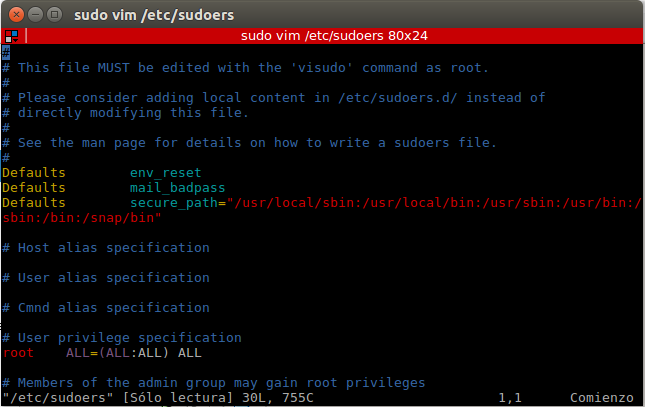
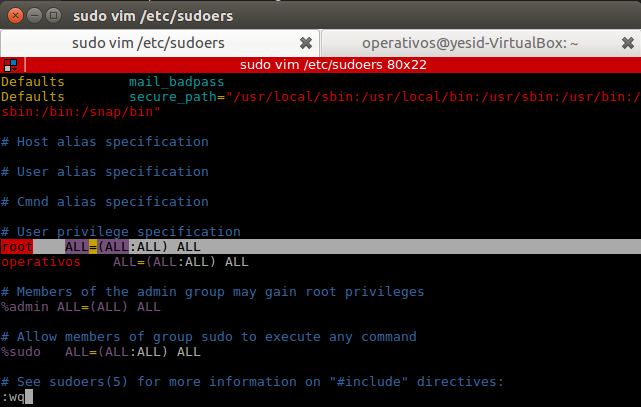
update README.md

Changed region(s): [[0.0, 0.0, 1.0, 1.0], [0.0, 0.914, 0.8112, 1.0], [0.0, 0.7961, 0.6552, 0.8845]]

diff --git a/A00056408/README.md b/A00056408/README.md
@@ -1,7 +1,7 @@
 # Proyecto   
 **Nombre:** Yesid Leonardo López  
 **Código:** A00056408  
-
+**URL Repositorio:** 
 # Objetivo General  
 
 Realizar el despliegue de dos servidores web y un balanceador de carga por medio de contenedores LXC/LXD. 
@@ -35,7 +35,46 @@ Para instalarlo le damos permisos al usuario operativos. Para esto escribimos en
 
 ![](https://github.com/leonleo997/so-project/blob/yesid/A00056408/Images/sudoers.png)
 
+Ahora, instalaremos LXD. Para esto escribimos en consola el siguiente comando:  
+```console
+operativos@Ubuntu:~$ sudo apt-get install LXD 
+```
+
+LXD ya está instalado en Ubuntu por defecto, sin embargo, necesitamos configurar el usuario operativos para administrar contenedores, después configuramos el tipo de almacenamiento para guardar los contenedores y configurar la red.  
+
+Instalamos lxd con el siguiente comando: 
+
+```console
+operativos@Ubuntu:~$ sudo apt-install lxd
+```
+
+Adicionamos el usuario al grupo lxd, de esta manera podremos usar el usuario operativos para realizar todas las tareas de administración de contenedor.  
 
 
+```console
+operativos@Ubuntu:~$ sudo adduser operativos lxd
+```
+
+El nuevo grupo será efectiva en la siguiente sesión, por lo tanto, para aplicar los cambios en la shell actual ejecutamos: 
+
+```console
+operativos@Ubuntu:~$ newgrp lxd
+```  
+
+
+------------------------------------------------------------------------
+
+```console
+operativos@Ubuntu:~$ newgrp lxd
+```
 
 ![](https://github.com/leonleo997/so-project/blob/yesid/A00056408/Images/)
+
+```console
+operativos@Ubuntu:~$ 
+```
+
+
+# Bibliografía  
+* Instalación y configuración de lxd: https://tutorials.ubuntu.com/tutorial/tutorial-setting-up-lxd-1604#1  
+* 
